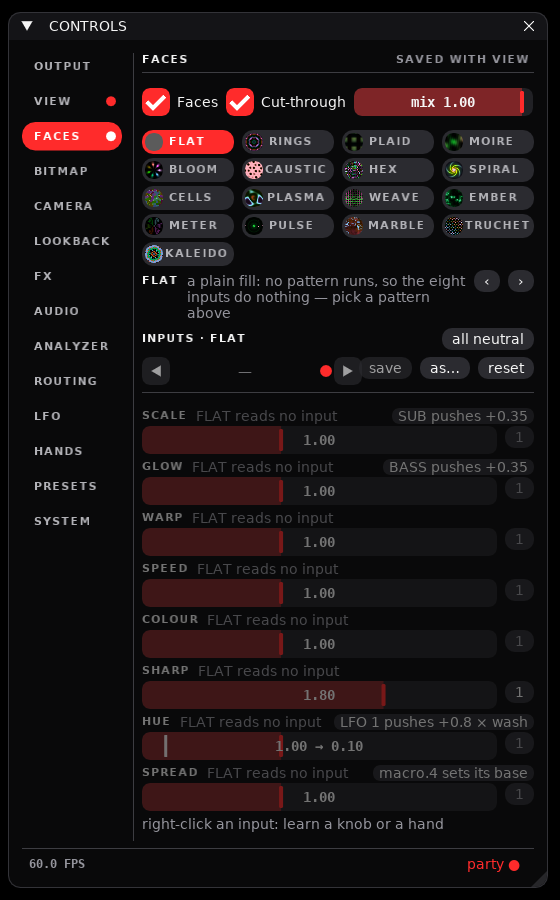
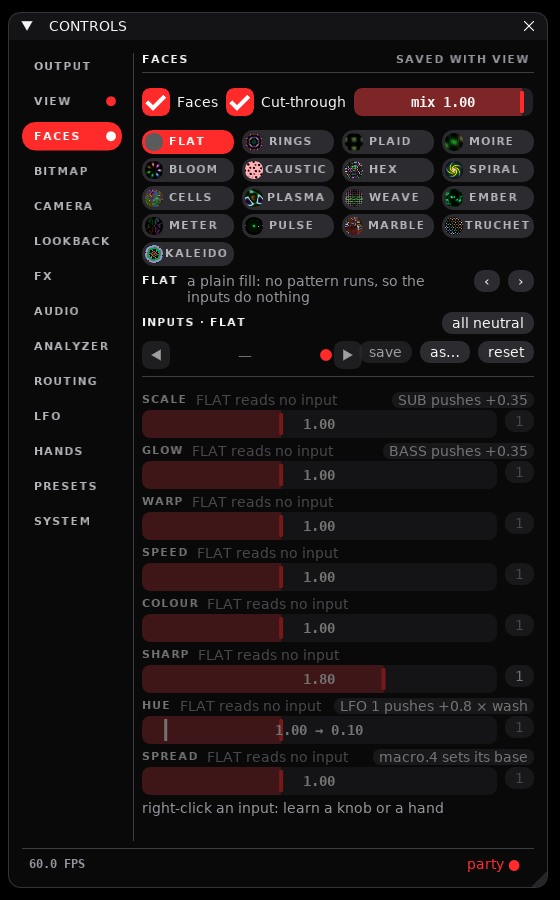
Review: the docs say what the Stream B review found
The FACES fit is 18 px spare in the container's metrics, and its
tallest case is a mode's own about line wrapping (checks 120 and the
register row say so; the screenshots show the shortened FLAT note and
CAUSTIC line). Checks 123, 126 and 127 cover PULSE's long-run hats, a
broken patterns.glsl save with FACES open, and a session control on an
input. Plan 22's rough edges gain the pattern clock's float32 limit,
party-faces' one-sided roll, migrated schema-1 projects at depth 0.35,
out-of-range pattern and shape indices, and the unshown swatch error;
the stale-docstring entry goes, the review fixed them.
ARCHITECTURE.html's counts are the merged branch's.

Claude-Session: https://claude.ai/code/session_01LDsPyKh4bjVfPr66d2VTWJ

Changed region(s): [[0.2429, 0.3111, 0.9714, 0.9333], [0.9107, 0.6844, 0.9411, 0.7156]]

diff --git a/hyperspace-python/docs/ARCHITECTURE.html b/hyperspace-python/docs/ARCHITECTURE.html
@@ -359,8 +359,8 @@
     </p>
     <dl class="prov">
       <div><dt>Modules</dt><dd>51</dd></div>
-      <div><dt>Python</dt><dd>32,614</dd></div>
-      <div><dt>Tests</dt><dd>37,845</dd></div>
+      <div><dt>Python</dt><dd>32,632</dd></div>
+      <div><dt>Tests</dt><dd>38,025</dd></div>
       <div><dt>Shapes</dt><dd>26</dd></div>
       <div><dt>Patterns</dt><dd>17</dd></div>
     </dl>
@@ -941,9 +941,9 @@
 
     <div class="stats">
       <div class="stat"><div class="v">51</div><div class="k">Python modules</div></div>
-      <div class="stat"><div class="v">32,614</div><div class="k">lines of app</div></div>
-      <div class="stat"><div class="v">37,845</div><div class="k">lines of tests</div></div>
-      <div class="stat"><div class="v">57</div><div class="k">test files</div></div>
+      <div class="stat"><div class="v">32,632</div><div class="k">lines of app</div></div>
+      <div class="stat"><div class="v">38,025</div><div class="k">lines of tests</div></div>
+      <div class="stat"><div class="v">58</div><div class="k">test files</div></div>
       <div class="stat"><div class="v">26</div><div class="k">shapes</div></div>
       <div class="stat"><div class="v">12</div><div class="k">effects</div></div>
     </div>

diff --git a/hyperspace-python/docs/plans/11-hand-checks.md b/hyperspace-python/docs/plans/11-hand-checks.md
@@ -1739,12 +1739,14 @@ house show's (PRESETS: SHOW `house`).
 Headless: `tests/test_ui_patterns.py::test_the_page_fits_with_every_row_driven_and_flat_or_the_longest_mode tests/test_ui_shell.py::test_every_page_fits_the_control_window`.
 **These tests do not settle it.** They measure in the machine's own font
 metrics, and in the cloud container those are not the Mac's: test_fx's
-own two fit tests fail there by 18 px. The 31 px the FACES test leaves
+own two fit tests fail there by 18 px. The 18 px the FACES test leaves
 spare there is not evidence. (copy) Launch, FACES. Pick KALEIDO, then
 FLAT, then EMBER. Then the worst case: on ROUTING put a route on every
 input (FACES' **+ SUB** … **+ LFO 2**), name a macro "a long macro name"
 with a depth subscriber on one of them, untick Faces, and break
-`patterns.glsl` (an undeclared name; save; put it back after). *Pass:*
+`patterns.glsl` (an undeclared name; save; put it back after). Then,
+with Faces on and no error, FLAT and CAUSTIC: a pattern's own line
+wrapping is the tallest case. *Pass:*
 no scroll bar at the control size on any pattern; all seventeen chips
 inside the page, their names inside the chips; every row's two lines on
 screen, the driver's text cut short with "…" rather than over the edge;
@@ -1781,12 +1783,16 @@ something else on one pattern → that mode's case in `patterns.glsl`
 the route depths (`routing.PATTERN_DEPTH`).
 
 **123. SPEED never jumps over a long set.**
-Headless: `tests/test_patterns.py::{test_moving_speed_changes_the_rate_and_never_jumps_the_clock,test_speed_at_0_is_frozen}`.
+Headless: `tests/test_patterns.py::{test_moving_speed_changes_the_rate_and_never_jumps_the_clock,test_speed_at_0_is_frozen,test_pulses_hats_still_sparkle_hours_into_a_set}`.
 A house preset, music, RINGS, then PLASMA, ten minutes or more (the
 jump grew with time on the old clock). Watch for a pattern snapping to
-another place when the music changes. *Pass:* it speeds up and slows
-down with the mids and never snaps. *Fail:* a snap →
-`Renderer._pattern_clock` (it must integrate, not multiply).
+another place when the music changes. If the app has been up an hour
+or more, also look at PULSE and EMBER. *Pass:* it speeds up and slows
+down with the mids and never snaps; after an hour PULSE's hats still
+twinkle and EMBER still drifts (EMBER is known to stop after about
+12 h). *Fail:* a snap → `Renderer._pattern_clock` (it must integrate,
+not multiply); PULSE's hats gone → the wrapped step in `pulse()`;
+EMBER still within the hour → float32 precision of `u_ptime`.
 
 **124. HUE on an LFO and SPREAD on a knob, on the 120-cell.**
 Headless: `tests/test_patterns.py::{test_hue_turns_the_palette_and_keeps_the_shape,test_spread_at_0_plays_every_face_in_unison}`.
@@ -1810,9 +1816,12 @@ note where they stall. *Pass:* they find a look without opening a
 in `patterns.py` or the page's lines (`ui_patterns`).
 
 **126. The swatches.**
-Headless: `tests/test_ui_patterns.py::test_the_page_asks_the_renderer_for_swatches_and_draws_them tests/test_ui_patterns.py::test_swatches_draw_only_while_the_page_asks_and_leave_the_frame_as_it_was`.
+Headless: `tests/test_ui_patterns.py::test_the_page_asks_the_renderer_for_swatches_and_draws_them tests/test_ui_patterns.py::test_swatches_draw_only_while_the_page_asks_and_leave_the_frame_as_it_was tests/test_ui_patterns.py::test_a_broken_save_keeps_the_last_good_swatches_and_is_compiled_once`.
 FACES open, music, a busy shape (the 600-cell). Note the footer's FPS;
-switch to VIEW, note it again. Move SCALE and COLOUR. *Pass:* each chip
+switch to VIEW, note it again. Move SCALE and COLOUR. Then, FACES still
+open, break `patterns.glsl` (an undeclared name), save, wait ten
+seconds, put it back and save. *Pass:* no stutter while it is broken
+and the swatches keep their last good look; the fix lands; and each chip
 shows a recognisable small picture of its pattern, moving; the swatches
 follow the inputs; the FPS with FACES open is within a frame or two of
 VIEW's. Say whether the swatches are legible at the size they are.
@@ -1820,7 +1829,7 @@ VIEW's. Say whether the swatches are legible at the size they are.
 with FACES open → `Renderer._swatch_step` (one 64² swatch a frame).
 
 **127. "+ SUB", the driver link, and undo.**
-Headless: `tests/test_ui_patterns.py::{test_an_undriven_input_offers_the_conventions_source_and_stays_here,test_a_routed_input_shows_its_source_and_a_click_opens_routing,test_the_driver_line_names_the_macro_desk_and_base_subscribers}`.
+Headless: `tests/test_ui_patterns.py::{test_an_undriven_input_offers_the_conventions_source_and_stays_here,test_a_routed_input_shows_its_source_and_a_click_opens_routing,test_the_driver_line_names_the_macro_desk_and_base_subscribers,test_a_session_control_on_an_input_is_named_and_nothing_is_offered}`.
 (copy) A house preset. FACES: on HUE, which no factory route drives,
 click **+ LFO 1**; ⌘Z. On SCALE, click "SUB pushes +0.35". *Pass:* "+ LFO
 1" becomes "LFO 1 pushes +0.35", the page stays on FACES and the preset's

diff --git a/hyperspace-python/docs/plans/22-flat-shapes-and-face-patterns.md b/hyperspace-python/docs/plans/22-flat-shapes-and-face-patterns.md
@@ -421,10 +421,15 @@ were are in [`assets/22-face-patterns/`](assets/22-face-patterns/).
   pixels are the same either way. The render stack still writes no
   param.
 - **Fit: UNVERIFIED.** In this container's font metrics the worst case
-  (all eight inputs driven, a long macro name, a GLSL error, Faces off,
-  every mode) has no scroll and 31 px of height to spare. Those metrics
-  are not the Mac's: test_fx's own two fit tests fail here by 18 px. The
-  page has to be seen on the Mac (check 120).
+  has no scroll and 18 px of height to spare. The tallest case is a
+  mode's own about line wrapping (Faces on, no error), not the GLSL
+  error or Faces off, which take that line's place: the review found the
+  first fit test measured only those, and the real worst case (FLAT and
+  CAUSTIC wrapping to three lines) left 2 px. FLAT's note and CAUSTIC's
+  about were shortened so every mode is two lines, and the test now
+  sweeps all three states on every mode. Those metrics are not the
+  Mac's: test_fx's own two fit tests fail here by 18 px. The page has to
+  be seen on the Mac (check 120).
 - **Tests.** `tests/test_ui_patterns.py`, 27 tests, among them
   `::test_the_faces_page_is_in_pages_and_draws_this_module`,
   `::test_every_mode_has_a_chip_and_its_line`,
@@ -595,7 +600,7 @@ pictures are offscreen renders and a hidden window in this container, on
 Mesa's software GL. In particular:
 
 - **The FACES page's fit on the Mac** (check 120). In this container's
-  font metrics it has 31 px spare at the worst case; the same metrics put
+  font metrics it has 18 px spare at the worst case; the same metrics put
   test_fx's own two fit tests 18 px over, so neither number says
   anything about the Mac.
 - **`patterns.glsl` on Apple's GL compiler** (check 121). Mesa and the
@@ -644,7 +649,7 @@ The order to see them in is group R; see also
 - **`Shape.w == "flat"` is used by no shape.** It stays in `W_KINDS` so
   the tests can show the collapse and so a future 3D shape can be added
   honestly.
-- **The FACES page's fit is UNVERIFIED** on the Mac: 31 px spare in this
+- **The FACES page's fit is UNVERIFIED** on the Mac: 18 px spare in this
   container's metrics, which also put test_fx's fit tests 18 px over
   (check 120).
 - **Apple's GL compiler has not seen `patterns.glsl`**; Mesa and
@@ -681,9 +686,25 @@ The order to see them in is group R; see also
 - **Shared bases in two candidates**: MACRO INTENSITY's 1 and 3 and
   MACRO BREAKDOWN DROP's 1 and 2/3 set the same bases; the last turned
   wins.
-- **Stale text**: `patterns.py`'s docstring opens "the eight inputs and
-  twelve modes" (there are seventeen); `ui_patterns.py`'s docstring puts
-  the slider on an input's first line and the driver on its second (the
-  page draws them the other way round); `preset.party_faces_routes`'
-  docstring and `party-faces.json`'s note say the right hand's roll
-  rescales the hex cells — input 2 is WARP now, so it bends them.
+- **The pattern clock loses float32 precision after many hours.**
+  `u_ptime` is integrated and never wraps (the modes' frequencies share
+  no period, so a wrap would jump). The hash-noise modes show it first:
+  EMBER's motion stops after about 12 h at SPEED 1 (sooner with SPEED
+  above 1, which the factory MID lane gives it), and MARBLE's texture
+  coarsens by about 12 h; the other modes measured fine to 36 h. EMBER
+  had the same limit on `u_time` before plan 22. Wrapping the noise
+  lattice would fix it but changes EMBER's look; the owner decides.
+- **party-faces' right-hand roll drives WARP.** Rolled one way it bends
+  the HEX cells; rolled the other it does nothing, because HEX is
+  straight from 0 to 1. Retarget it to SCALE or keep it: the owner's
+  call.
+- **A schema-1 project migrated from now on** carries the factory pattern
+  rows at 0.35, not the depth-1 rows shipped before plan 13 (only an
+  unmigrated old home meets this).
+- **An out-of-range `view.pattern`** (from an older or newer build's
+  preset) draws as FLAT and FACES shows FLAT lit; it never crashes. An
+  out-of-range `view.shape` is worse: `Registry.restore` sets an enum
+  without a clamp and `geom()` raises every frame. That predates plan
+  22; plan 22's shape 26 makes it reachable by loading a Klein-bottle
+  preset on an older build.
+- **`Renderer.swatch_error` is set but shown nowhere** on the page.

diff --git a/hyperspace-python/docs/TESTING-GUIDE.md b/hyperspace-python/docs/TESTING-GUIDE.md
@@ -1593,7 +1593,8 @@ Mac.
 case: on each of the eight inputs click its **+ …** offer (+ SUB … + LFO
 2) so every input is driven; on ROUTING, give a macro a long name such
 as "a long macro name" and set it to scale one of those routes; untick
-**Faces**.
+**Faces**. Then tick Faces again and click FLAT and CAUSTIC: a
+pattern's own description running long is the tallest case.
 
 **Right if:** the page never needs scrolling; all seventeen pattern
 buttons fit, with their names inside them; every input's two lines are
@@ -1650,11 +1651,14 @@ explain the inputs and what drives them.
 **Needs:** laptop, music.
 
 **Do:** shape 600-cell, faces on. Note the frame rate in the footer with
-FACES open, then on VIEW. Back on FACES, drag SCALE and COLOUR.
+FACES open, then on VIEW. Back on FACES, drag SCALE and COLOUR. Then,
+with FACES still open, break `patterns.glsl` (type a made-up word into a
+line), save, wait, undo the change and save again.
 
 **Right if:** each button shows a small moving picture of its pattern,
 and the pictures change as you drag the inputs; the frame rate is about
-the same on both pages.
+the same on both pages; while the file is broken nothing stutters and
+the pictures keep their last good look, and the fix comes back.
 
 **Judge:** whether the pictures are big enough to tell apart.
 
@@ -1718,10 +1722,13 @@ it and loud ones never turn it solid white or black.
 **Needs:** laptop, music, ten minutes or more.
 
 **Do:** house preset, RINGS, then PLASMA; let it run and watch when the
-music changes.
+music changes. If the app has been running an hour or more, also look
+at PULSE and EMBER.
 
 **Right if:** the pattern speeds up and slows down with the music, but
-never snaps to a different place.
+never snaps to a different place; after an hour PULSE's small dots still
+twinkle and EMBER still drifts (EMBER is known to stop after about
+12 hours).
 
 **Wrong if:** a sudden snap.
 

diff --git a/hyperspace-python/docs/DECISION-REGISTER.md b/hyperspace-python/docs/DECISION-REGISTER.md
@@ -1241,8 +1241,9 @@ Stream B; the pictures are in
   thumbnails (they would not show the current inputs); every swatch
   every frame.
 - **To reverse.** The page is one module; the dropdown is an hour.
-- **Rough edge.** Its fit on the Mac is **unverified** (31 px spare in
-  the container's font metrics, which are not the Mac's). The pattern
+- **Rough edge.** Its fit on the Mac is **unverified** (18 px spare in
+  the container's font metrics, which are not the Mac's; the tallest
+  case is a mode's own about line wrapping). The pattern
   group's preset strip draws its dirty dot over its ▶ chip at this
   width.
 - **Judge it.** Checks 120, 125, 126 and 128.
